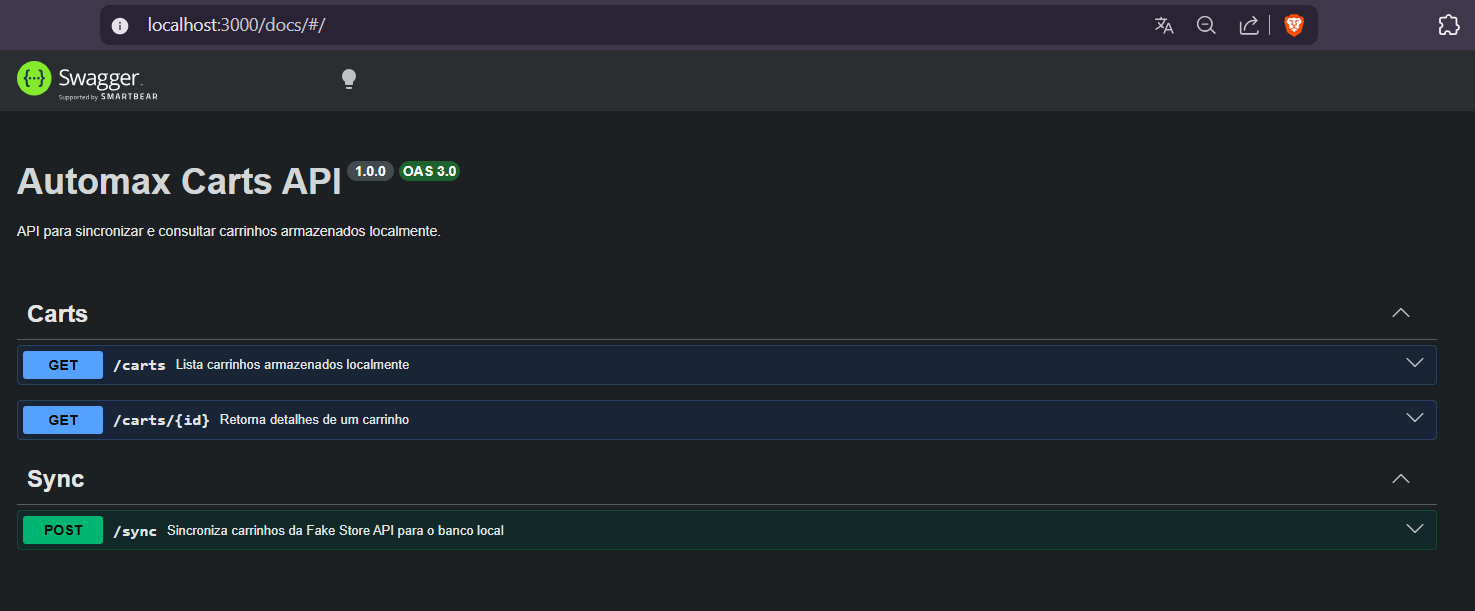
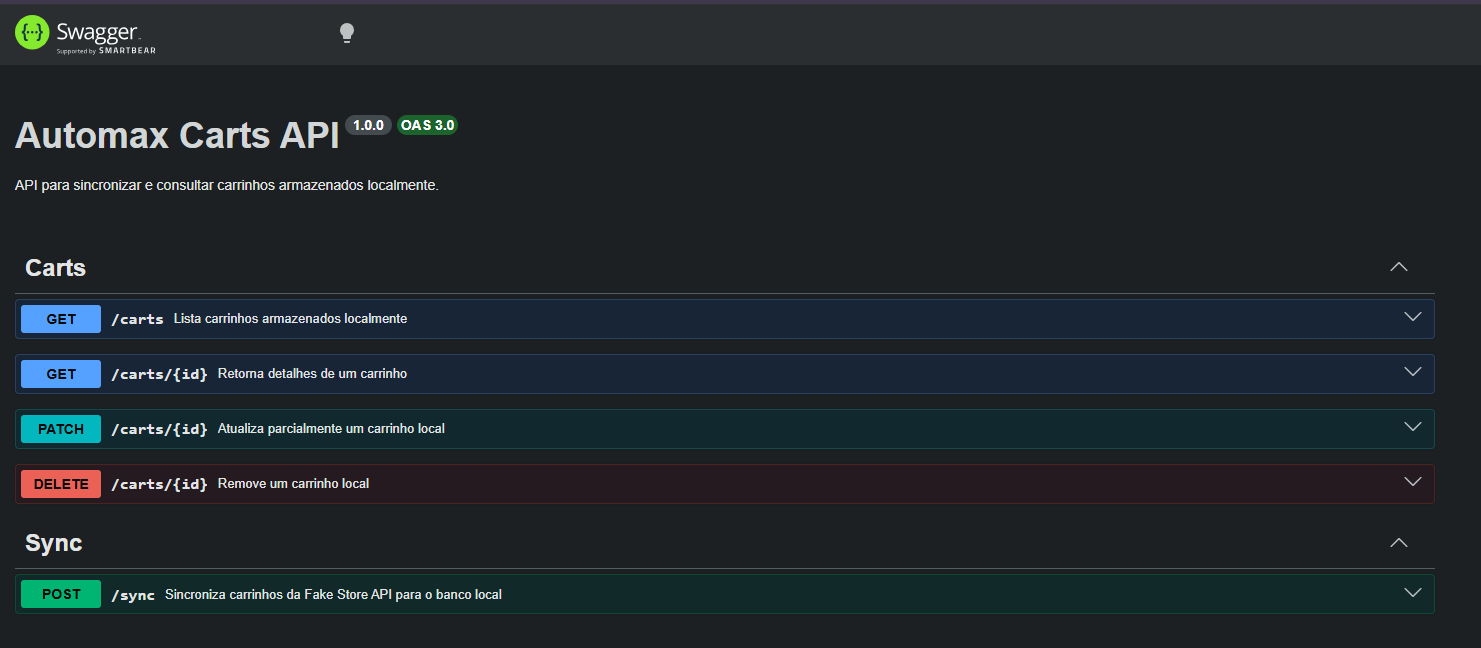
fix: update readme

Changed region(s): [[0.0, 0.3732, 0.9668, 0.964], [0.0, 0.0, 1.0, 0.2488], [0.0, 0.2488, 0.3119, 0.3421]]

diff --git a/backend/src/routes/carts.routes.ts b/backend/src/routes/carts.routes.ts
@@ -1,6 +1,10 @@
 import { Router } from "express";
 import { validate } from "../middlewares/validate.middleware";
-import { GetCartByIdParamsDTO, GetCartsQueryDTO, UpdateCartBodyDTO } from "../dtos/carts.dto";
+import {
+  GetCartByIdParamsDTO,
+  GetCartsQueryDTO,
+  UpdateCartBodyDTO,
+} from "../dtos/carts.dto";
 import { CartsController } from "../controllers/carts.controller";
 
 export function cartsRoutes(controller: CartsController) {
@@ -42,8 +46,12 @@ export function cartsRoutes(controller: CartsController) {
    *       200: { description: OK }
    *       404: { description: Not Found }
    */
-  router.get("/:id", validate(GetCartByIdParamsDTO, "params"), controller.getById);
-  
+  router.get(
+    "/:id",
+    validate(GetCartByIdParamsDTO, "params"),
+    controller.getById,
+  );
+
   /**
    * @openapi
    * /carts/{id}:
@@ -63,14 +71,7 @@ export function cartsRoutes(controller: CartsController) {
    *             type: object
    *             properties:
    *               userId: { type: integer }
-   *               date: { type: string, example: "2020-03-02" }
-   *               items:
-   *                 type: array
-   *                 items:
-   *                   type: object
-   *                   properties:
-   *                     productId: { type: integer }
-   *                     quantity: { type: integer }
+   *               date: { type: string, example: "2020-03-12T00:00:00.000Z" }
    *     responses:
    *       200: { description: OK }
    *       400: { description: Validation Error }
@@ -80,7 +81,7 @@ export function cartsRoutes(controller: CartsController) {
     "/:id",
     validate(GetCartByIdParamsDTO, "params"),
     validate(UpdateCartBodyDTO, "body"),
-    controller.update
+    controller.update,
   );
 
   /**
@@ -101,7 +102,7 @@ export function cartsRoutes(controller: CartsController) {
   router.delete(
     "/:id",
     validate(GetCartByIdParamsDTO, "params"),
-    controller.remove
+    controller.remove,
   );
 
   return router;

diff --git a/README.md b/README.md
@@ -1,56 +1,83 @@
 # Como executar o backend: PostgreSQL (Docker) ou SQLite (Local)
 
-Você pode configurá-lo de duas formas: usando Docker com PostgreSQL para um ambiente mais robusto e escalável, ou usando SQLite para uma configuração simples e local sem dependências externas.
----
+## Você pode configurá-lo de duas formas: usando Docker com PostgreSQL para um ambiente mais robusto e escalável, ou usando SQLite para uma configuração simples e local sem dependências externas.
+
 ## Faça o clone do repositório na sua máquina e acesse os arquivos:
+
 ```bash
 git clone https://github.com/andreidoberstein/challenge-automax.git
 cd challenge-automax/backend
 ```
+
 ---
+
 ## Opção 1: Usando Docker e PostgreSQL
+
 - Essa configuração usa Docker para rodar um container PostgreSQL, facilitando a portabilidade e isolamento.
 
 ---
 
 Subir o ambiente Docker com o comando:
+
 ```bash
 docker compose up -d
 ```
+
 Crie um arquivo **.env** baseado no **.env.example:**
+
 ```bash
 cp .env.example .env
 ```
 
 Garanta que o **DATABASE_URL** aponte para o Postgres:
+
 ```
 DATABASE_URL="postgresql://user:password@localhost:5432/automax_db"
 ```
+
 Instalar dependências:
+
 ```bash
 npm install
 ```
+
 Aplicar migrations e gerar Prisma Client
+
 ```bash
 npx prisma generate
 npx prisma migrate dev
 ```
+
 Rodar a API:
+
 ```
 npm run dev
 ```
+
 ---
+
 ## Opção 2: Executando o projeto com SQLite (sem Docker)
 
 - SQLite roda localmente e salva os dados em um arquivo .db
+
 ---
+
+Instalar dependências:
+
+```bash
+npm install
+```
+
 Verifique se existe ou crie o arquivo **.env.dbsqlite** na raiz e cole o conteúdo:
+
 ```
 DATABASE_URL="file:./prisma/sqlite/dev.db"
 ```
+
 > O banco será criado automaticamente em <b>backend/prisma/sqlite/dev.db</b>
 
 Certifique-se que os scripts estão configurados no package.json:
+
 ```
 "prisma:sqlite:generate": "dotenv -e .env.dbsqlite -o -- prisma generate --schema=prisma/sqlite/schema.prisma",
 "prisma:sqlite:push": "dotenv -e .env.dbsqlite -o -- prisma db push --schema=prisma/sqlite/schema.prisma",
@@ -58,61 +85,62 @@ Certifique-se que os scripts estão configurados no package.json:
 ```
 
 Gerar Prisma Client, criar as tabelas e rodar a API:
+
 ```
 npm run prisma:sqlite:generate
 npm run prisma:sqlite:push
 npm run dev:sqlite
 ```
+
 ---
-### Prisma Studio
-> Verificar tabelas
-- Postgres
-```
-npx prisma studio
-```
-- SQLite
-```
-npx prisma:sqlite:studio
-```
----
+
 # 📌 Rotas (endpoints)
 
-| Método      | Endpoint            | Descrição                     | Status |
-|-------------|---------------------|-------------------------------|--------|
-| 🟢 GET      | `/health`           | Verifica se a API está ativa   | 200    |
-| 🟢 GET      | `/carts`           | Lista carrinhos armazenados   | 200    |
-| 🟢 GET      | `/carts/:id`           | Retorna detalhes de um carrinho   | 200    |
-| 🔵 POST     | `/sync`            | Sincroniza API                 | 201    |
-| 🟡 PATCH      | `/users/:id`        | Atualiza carrinho              | 200    |
-| 🔴 DELETE   | `/users/:id`        | Deleta carrinho                | 204    |
-___
+| Método    | Endpoint     | Descrição                       | Status |
+| --------- | ------------ | ------------------------------- | ------ |
+| 🟢 GET    | `/health`    | Verifica se a API está ativa    | 200    |
+| 🟢 GET    | `/carts`     | Lista carrinhos armazenados     | 200    |
+| 🟢 GET    | `/carts/:id` | Retorna detalhes de um carrinho | 200    |
+| 🔵 POST   | `/sync`      | Sincroniza API                  | 201    |
+| 🟡 PATCH  | `/users/:id` | Atualiza carrinho               | 200    |
+| 🔴 DELETE | `/users/:id` | Deleta carrinho                 | 204    |
+
+---
+
 <br>
 
-# 📖 Documentação
+# 📖 Documentação (Swagger UI)
 
 Com a API rodando acesse:
+
 ```
 http://localhost:3000/docs
 ```
+
 ![Preview da documentação](./frontend/src/assets/swagger.png)
 
 <br>
 <br>
 
 ---
+
 # 🖥 Como executar o frontend
+
 ![Preview da aplicação](./frontend/src/assets/front.png)
 
 ## Faça o clone do repositório na sua máquina e acesse os arquivos:
+
 ```bash
 git clone https://github.com/andreidoberstein/challenge-automax.git
 cd challenge-automax/frontend
 ```
 
 Rodar o comando:
+
 ```bash
 npm run dev
 ```
+
 > Acessar a aplicação na URL indicada (http:localhost:8080)
 
 ---
@@ -125,7 +153,7 @@ Para cada produto dentro de **fakeCart.products**, ele garante que exista um reg
 
 - Se não existir → ele cria o item com cartId, productId e quantity
 
-> Assim garantimos que exista no máximo um registro por produto no carrinho.
+> Assim garante que exista no máximo um registro por produto no carrinho.
 
 ```bash
 for (const p of fakeCart.products) {
